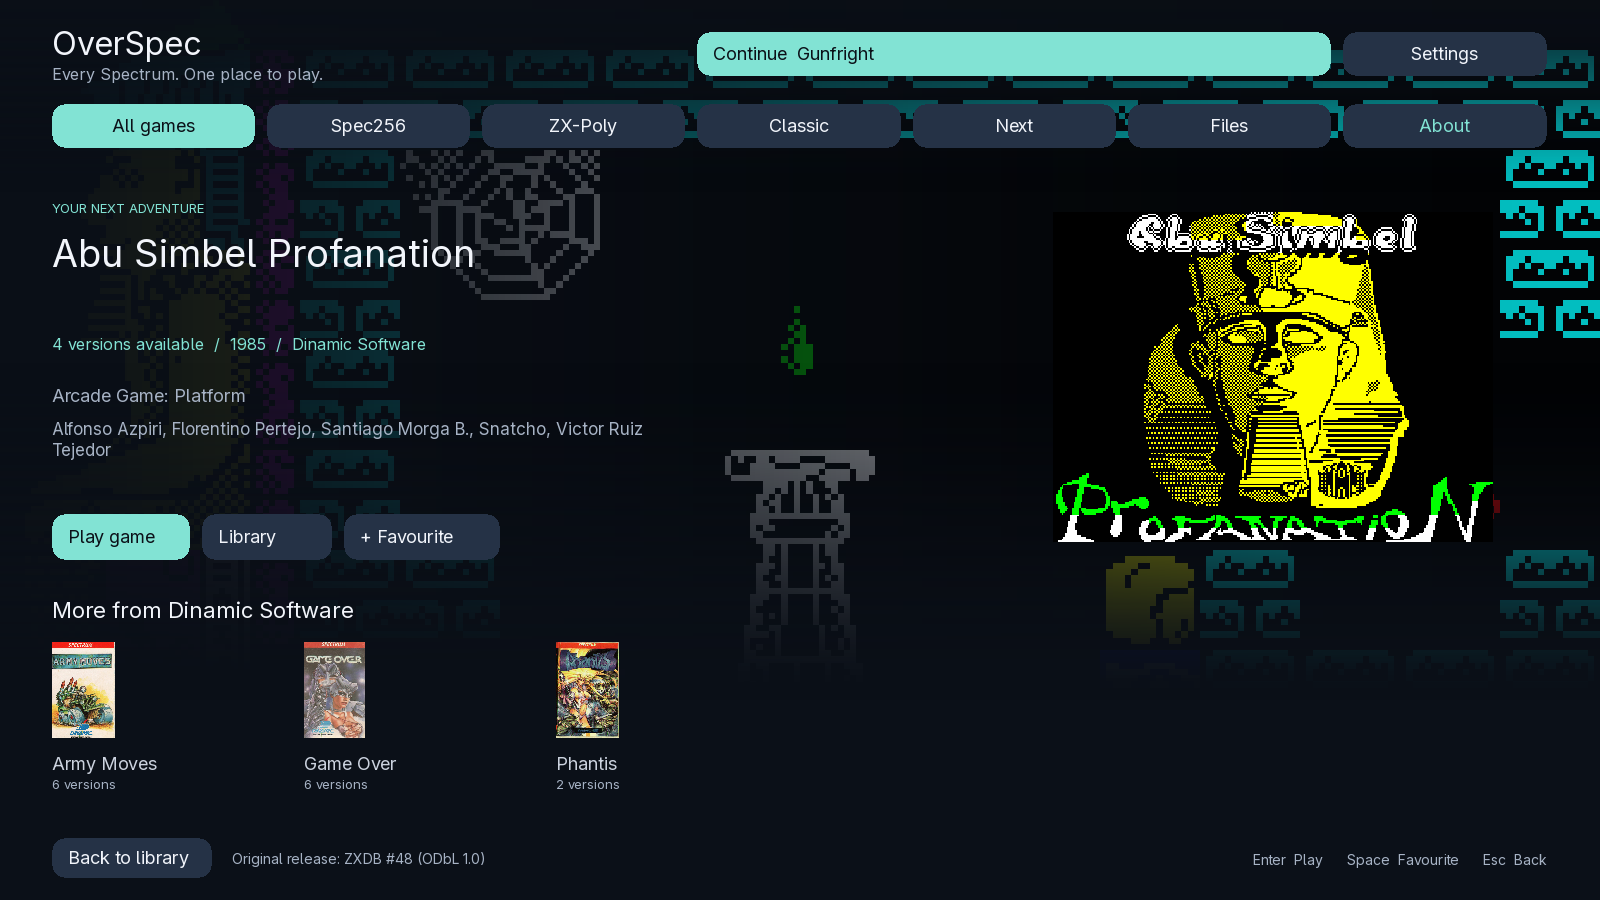
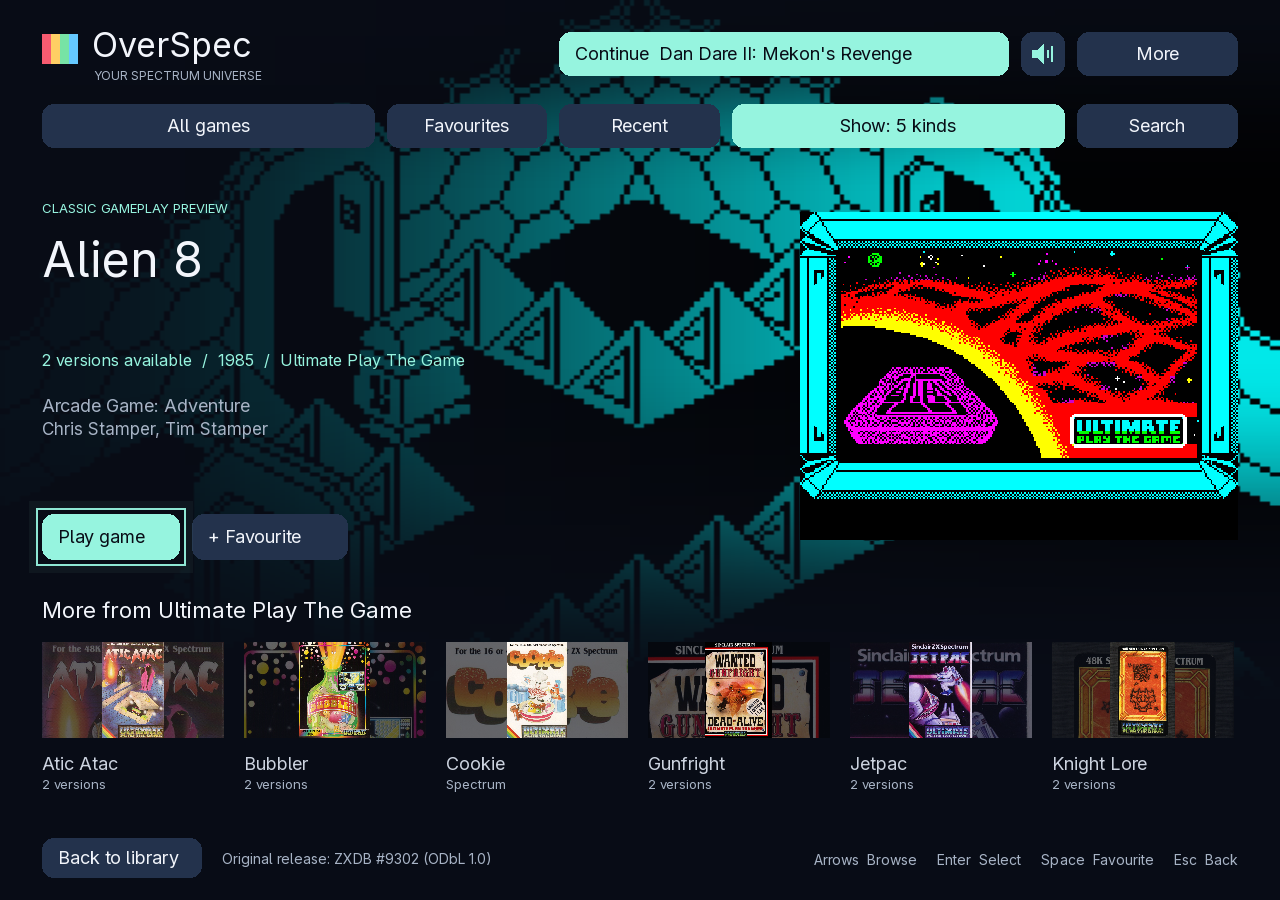
0.6.20261115: controller interface, preview sound, games in the box, where to find more for each format

diff --git a/README.md b/README.md
@@ -1,6 +1,6 @@
 # OverSpec (early test build)
 
-Classic ZX Spectrum games, enhanced colour editions and native Spectrum Next games, together in one library.
+Classic ZX Spectrum games, enhanced colour editions and native Spectrum Next games, together in one library you can drive from the sofa with a game controller.
 
 > **Expect this to be somewhere between an alpha and a beta.** It has had a lot of polish, but there are probably plenty of problems we have not noticed yet. Things will change before the first full release.
 
@@ -22,7 +22,7 @@ Installers for **Windows**, **Linux** and **Mac** are on the [Releases page](htt
 | Mac, Apple Silicon (macOS 13 or later) | `overspec-…-macos-arm64.dmg` | Open it and drag OverSpec to Applications. |
 | Mac, Intel (macOS 13 or later) | `overspec-…-macos-x86_64.dmg` | Open it and drag OverSpec to Applications. |
 
-The newest build, 0.6.20261114, is out for Windows, Linux and Mac.
+The newest build, 0.6.20261115, is out for Windows and Linux. The Mac build of it is on its way; until then the Mac files on the Releases page are 0.6.20261114.
 
 ### Mac users: we need your feedback most
 
@@ -64,14 +64,42 @@ OverSpec is an emulator built around picking a game and playing it.
 - Cassette-art surrounds, three skins, original pixels, Smooth, Scale2x and Scale4x.
 - Controller setup, in-game cheats and options, saves and rewind.
 - An updater for `.nxc` patches and their notes.
+- A full-screen interface that works entirely from a game controller, with the keyboard and mouse as alternatives. New in 0.6.20261115, and tested so far with simulated controllers only: tell us how yours behaves.
+- The 16K to +3 Spectrums, the Pentagon, the Timex TC2048 and TS2068, and the Spectrum Next, with ULAplus, Timex screen modes, Radastan, Gigascreen, multicolour and SPECTRA display hardware.
 
-You supply the games. The `.nxc` updater downloads patches, not copies of the games.
+## Games in the box
+
+OverSpec comes with something to play for every kind of display it supports, each in its own folder with a picture: Timex, multicolour, ULAplus, ZX-Uno and Radastan, Gigascreen, SPECTRA, Spec256 games in 256 colours, and NexClash `.nxc` patches. A patch is not a game: it needs your own copy of the game it changes.
+
+They are optional. The Windows setup program has a tick box for each folder, and on Linux `install.sh --no-games` leaves them out. `games/CREDITS.txt` in the package lists every title, whose it is and what is recorded about passing it on. **If one of them is yours and you would rather it was not here, [open an issue](https://github.com/jattree/overspec/issues) and it will be removed.**
+
+For everything else, you supply the games. The `.nxc` updater downloads patches, not copies of the games.
+
+## Where to find more for each format
+
+| Format | Where to look |
+|---|---|
+| 16K, 48K and 128K Spectrum games | [Spectrum Computing](https://spectrumcomputing.co.uk/) and [World of Spectrum](https://worldofspectrum.org/) |
+| Spectrum Next | [specnext.com](https://www.specnext.com/) and the Spectrum Next games on [itch.io](https://itch.io/) |
+| NexClash `.nxc` patches | [jattree/nxc](https://github.com/jattree/nxc), or the updater inside OverSpec |
+| Spec256 (256 colours) | the [Spec256 page at Spectrum Computing](https://spectrumcomputing.co.uk/tool/13/Spec256) |
+| ZX-Poly | [raydac/zxpoly](https://github.com/raydac/zxpoly) |
+| ULAplus | [Spectrum Computing](https://spectrumcomputing.co.uk/) and [ZX-Art](https://zxart.ee/), searching for ULAplus |
+| Timex TC2048 and TS2068 | [timexsinclair.com](https://timexsinclair.com/) and [Spectrum Computing](https://spectrumcomputing.co.uk/) |
+| Multicolour (BIFROST, NIRVANA) | [Spectrum Computing](https://spectrumcomputing.co.uk/) |
+| Gigascreen and other demos | [Demozoo](https://demozoo.org/) and [ZX-Art](https://zxart.ee/) |
+| ZX-Uno and Radastan | [ZX-Art](https://zxart.ee/) |
+| SPECTRA | the [SPECTRA interface's software page](https://homepages.plus.net/fruitcake/Sinclair/Spectrum/Spectra/SpectraInterface_Software.htm) |
+| Gameplay recordings (RZX) | [RZX Archive](https://www.rzxarchive.co.uk/) |
+
+Those sites say which titles their authors and publishers allow to be downloaded. Please respect that.
 
 ## Getting started
 
-1. Start OverSpec and press "Choose games folder" to pick the folder that holds your games with your system's own dialog, or drop a folder or a game onto the window. Choose the folder the games are in, not a whole drive.
-2. Pick a game and press Enter, or A on a controller.
-3. In a game, F2 (or the controller's Guide button, or Start and Select together) opens the menu. F1 returns to the library. F11 toggles full screen.
+1. Start OverSpec. The games that came with it are already listed. To add your own, open More, then Settings, and choose your games folder, or drop a folder or a game onto the window. Choose the folder the games are in, not a whole drive.
+2. Browse with the arrow keys, the D-pad or the left stick. Enter or A plays; I or Y shows details; Space or X marks a favourite; Start or M opens More. Search has an on-screen keyboard.
+3. In a game, Escape or F2 (or the controller's Guide button, or Start and Select together) opens the menu. F1 returns to the library. F11 toggles full screen.
+4. The speaker button at the top turns the sound of gameplay previews off and on.
 
 Your saves and settings are kept in your own data folder, never in the program's folder. Settings > Storage shows where, and lets you change it.
 
@@ -86,18 +114,16 @@ Your saves and settings are kept in your own data folder, never in the program's
 - The Kempston mouse follows the pointer over the game but does not capture it.
 - The Linux build is for x86_64 only.
 - The Mac build has had far less testing than the others, and is not notarised.
+- The controller interface has not yet been tried with a real controller by us; it was tested with simulated ones.
+- Gigascreen and other programs on TR-DOS disks need a TR-DOS ROM file of your own.
 
 ## Coming next
 
-OverSpec aims to play every kind of Spectrum game and demo, including the less common display formats. We are working on these now:
+- Recordings (RZX) for Spectrum Next games.
+- Sound for the video previews of enhanced editions; today only previews made from recordings have sound.
+- A signed Windows setup program and a notarised Mac app.
 
-- **ULAplus**, the 64-colour palette, for games and recoloured versions that use it.
-- **Timex** hi-colour and hi-res screens on the classic machines.
-- **Radastan** mode from the ZX-Uno.
-- **Gigascreen**, where two screens are blended into one.
-- **SPECTRA** interface display modes.
-
-If you know of a game or demo that uses one of these and should work, tell us in an issue.
+If you know of a game or demo that should work and does not, tell us in an issue.
 
 ## The `.nxc` patches
 
@@ -107,6 +133,7 @@ The patches and their setup guide are at [jattree/nxc](https://github.com/jattre
 
 - NexClash / `.nxc`: Dean Woodyatt and Jon Attree. [NexClash](https://github.com/bleughb/nexclash)
 - Spec256: Inigo Ayo and David Goti. EmuZWin: Vladimir Kladov. emuspec256 / C-port foundation: Alberto Conde. ZX-Poly: Igor Maznitsa.
+- Sinclair ROMs are (c) Amstrad, who allow their distribution with emulators. The Timex ROMs are passed on under the same statement, as Fuse does.
 - Thanks to the Fuse contributors, ZXDB, Spectrum Computing, RZX Archive and the individual recording authors.
 
 Games, artwork and colour conversions belong to their respective creators and publishers.

diff --git a/CHANGELOG.md b/CHANGELOG.md
@@ -1,5 +1,85 @@
 # OverSpec changes
 
+## 0.6.20261115 (beta)
+
+More of the Spectrum's extra display hardware, checked against a test set of
+about 1,200 programs gathered for the purpose.
+
+- **A new look, made for a controller:** the library is now a full-screen
+  interface with artwork behind it, shelves of cards and a moving highlight.
+  Everything can be done with a game controller and no keyboard or mouse:
+  browsing, search (with an on-screen keyboard), choosing folders and files,
+  NextZXOS setup, the pause menu, a Spectrum keyboard in the game, Spec256
+  recolouring with undo, and the questions the player asks. The keyboard and
+  mouse still work everywhere, and the hints at the bottom follow whichever
+  you last used. It has been tested with simulated controllers; reports from
+  real ones are welcome.
+- **Cards:** each card shows the cassette front, and the one in focus turns
+  to its loading screen.
+- **Full screen is remembered** from one run to the next.
+- **Previews you can hear:** the gameplay previews in the library now play
+  their sound as well as their picture. The speaker button beside More turns
+  it off and on, and your choice is remembered.
+- **Games in the box:** OverSpec now comes with games, demos and patches for
+  every kind of display it plays: Timex, multicolour, ULAplus, the ZX-Uno,
+  Gigascreen, SPECTRA, Spec256 games in 256 colours, and NexClash `.nxc`
+  patches (a patch needs your own copy of its game). Each has a picture.
+  `games/CREDITS.txt` lists whose they are and what is recorded about passing
+  each one on; if one is yours and you want it gone, open an issue. They
+  are optional: the
+  Windows setup program has a tick box for each kind, and on Linux
+  `install.sh --no-games` leaves them out. Their saves are kept in your own
+  data folder like any other game's.
+- **ULAplus:** programs that change the palette while the picture is being
+  drawn now look right. The HAM 8x1 picture viewer showed streaks; it is clean.
+- **Multicolour and border effects:** the 16K to +3 machines now draw the
+  picture as the beam crosses the screen, eight pixels at a time, where before
+  a change part way across a line was applied to the whole line.
+- **SPECTRA:** new. The SPECTRA interface's 64 colour modes on the 48K machine,
+  with its finer attributes, enhanced border and second screen.
+- **Timex machines:** new. The Timex TC2048 and the Timex Sinclair 2068 are
+  now machines of their own, with the 2068's sound chip, joystick and sixty
+  frames a second. Its cartridges (`.dck`) play, its tapes load at once like
+  a Spectrum's, and both machines are in the machine list. A tape with TS2068,
+  TC2068 or TC2048 in its file name starts on the right one; for any other
+  Timex tape, choose the machine from that list.
+- **Timex programs started on a Spectrum:** a tape that turns out to be
+  written for a Timex, with nothing in its name to say so, now restarts on a
+  Timex TC2048 by itself. Hi-Color Hero and River Raid II showed stripes; they
+  now show their full colour.
+- **Tapes that skip a block:** when a loader chooses not to load one of its
+  blocks, the tape no longer plays that block at its real length. Some titles
+  sat on a still screen for a minute before starting.
+- **Pictures:** screen files can be opened and shown: standard `.scr`,
+  Gigascreen `.img` and MultiArtist `.mg1` to `.mg8` (the two pictures are
+  mixed), and multicolour `.mlt`, `.mc` and Timex hi-colour and hi-res `.scr`.
+  The library can list all of these except plain loading screens, which
+  would bury the games; those open from "Browse files and folders". Pictures
+  stay out of the list until you tick them in the Show menu, and each says
+  what kind of picture it is.
+- **ZX-Uno programs that read files:** a Spectrum program that loads its data
+  from an SD card through esxDOS now finds the files beside it. Return to
+  Holy Tower plays.
+- **A tidier library header:** the row of filter buttons is now one Show
+  control and a More menu. Show is a list of tick boxes: 16K, 48K, 128K and
+  Spectrum Next, with Spec256, ZX-Poly, ULAplus, Radastan, SPECTRA,
+  Gigascreen and Timex under 48K and `.nxc` under Next. Tick a machine to tick everything under it, or open it and tick only
+  what you want. Each row says how many games you have of that kind, or that
+  you have none, and what you tick is remembered. A game is filed under its machine
+  when its details, its snapshot or its file name says which one it is for;
+  one that says nothing is listed under both 48K and 128K. More holds Open a
+  file, Browse files and folders, Refresh library, Settings and About.
+- **Games that say what they are:** once you have played a game that uses
+  ULAplus, the ZX-Uno's Radastan mode, SPECTRA, Gigascreen or a Timex screen
+  mode, the library names it for that and files it under that row of the
+  Show menu. OverSpec learns this by watching the game run, so a game you
+  have not played yet is still listed as a plain Spectrum game.
+- **Fixed: choosing a machine.** Picking 128K, +2, +2A, +3 or Pentagon in the
+  machine list did nothing. It now restarts the game on that machine.
+- **128K titles:** a tape that says nothing about its machine but uses 128K
+  memory now starts on a 128K machine, as do files named with `(128)` or
+  `128 Kb`. Several titles that sat on a black screen now run.
+
 ## 0.6.20261114 (early test build)
 
 This build answers a report from someone whose first run went badly. Each
@@ -61,14 +141,6 @@ Also fixed
   installed program as it was.
 
 ## 0.6.20261113 (early test build)
-
-Added
-
-- **Mac:** the first Mac build, as separate packages for Apple Silicon and
-  Intel, for macOS 13 or later. It has had far less testing than the Windows
-  and Linux builds. It also carries fixes that reach Windows and Linux in
-  the next build: quitting when a save fails keeps the game open and offers
-  Retry, and a second resume point set aside no longer replaces the first.
 
 Fixed
 
